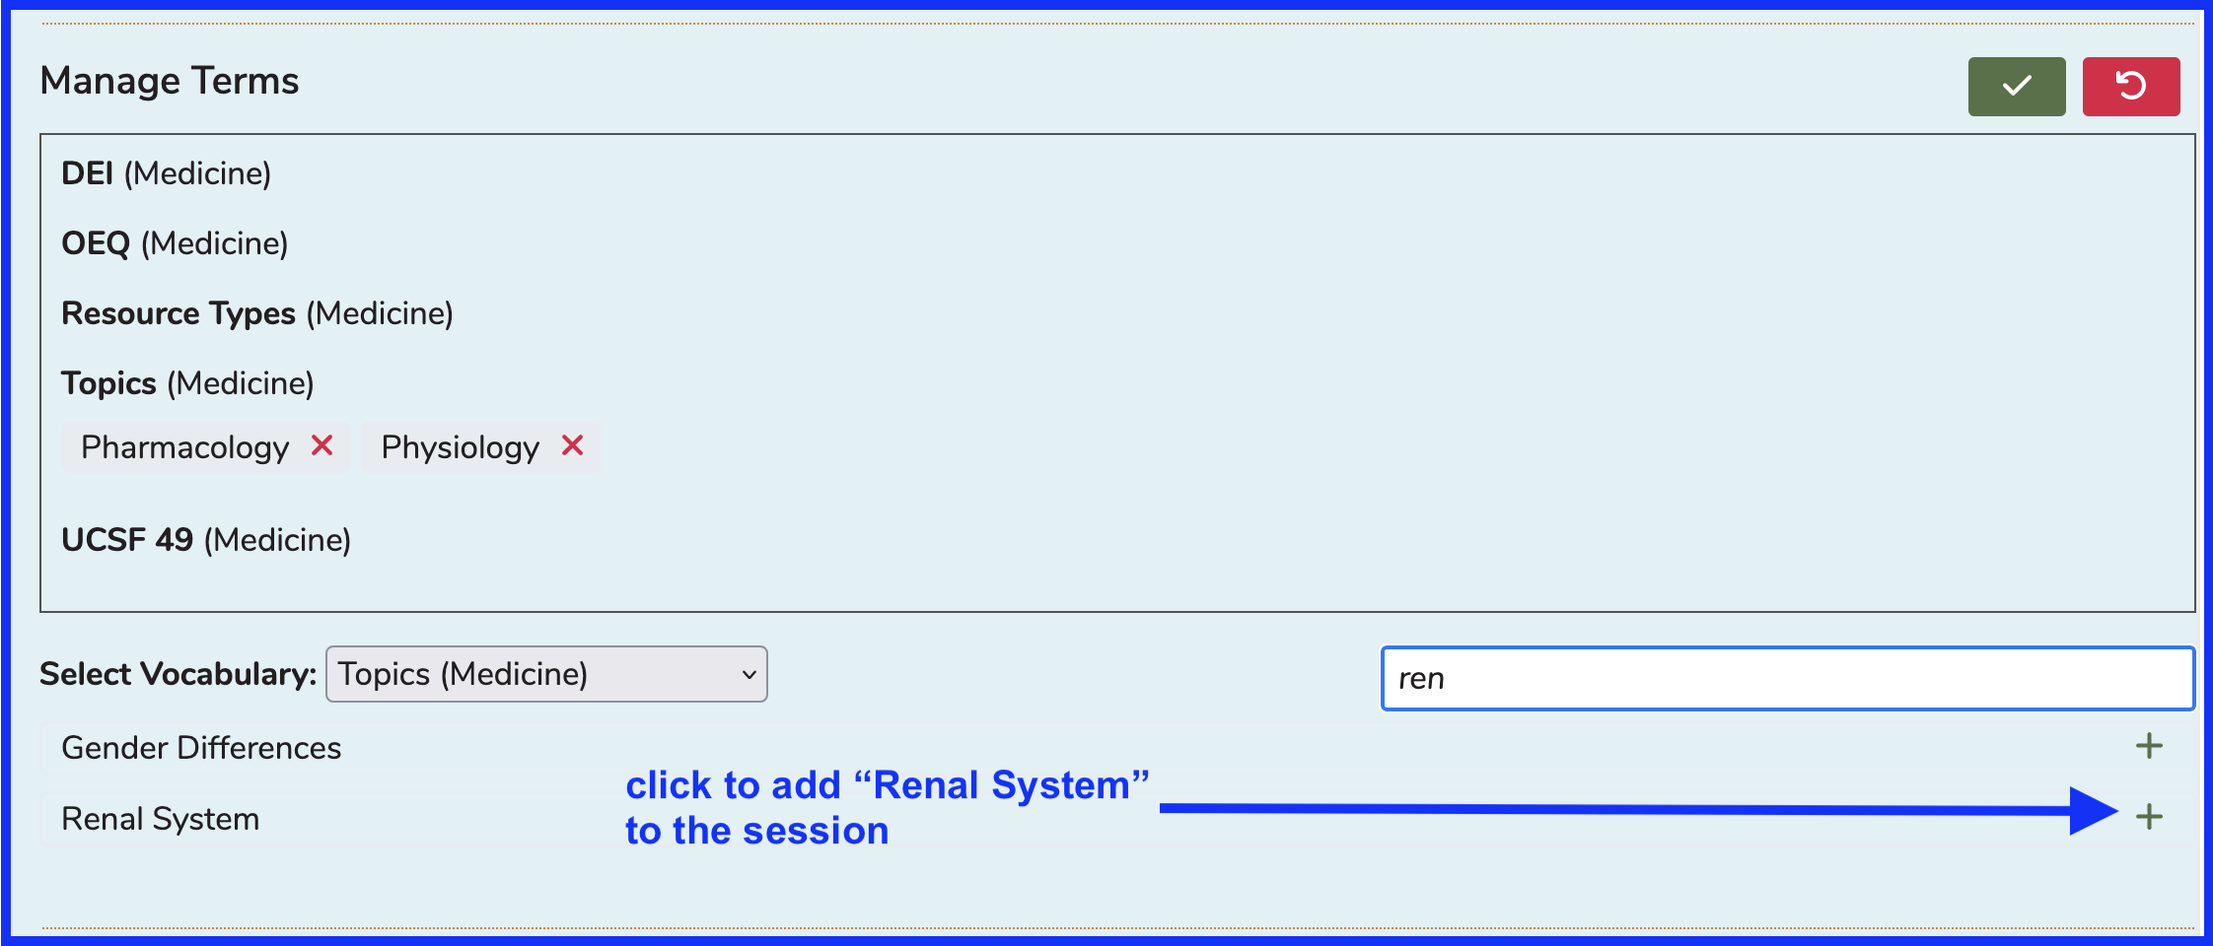
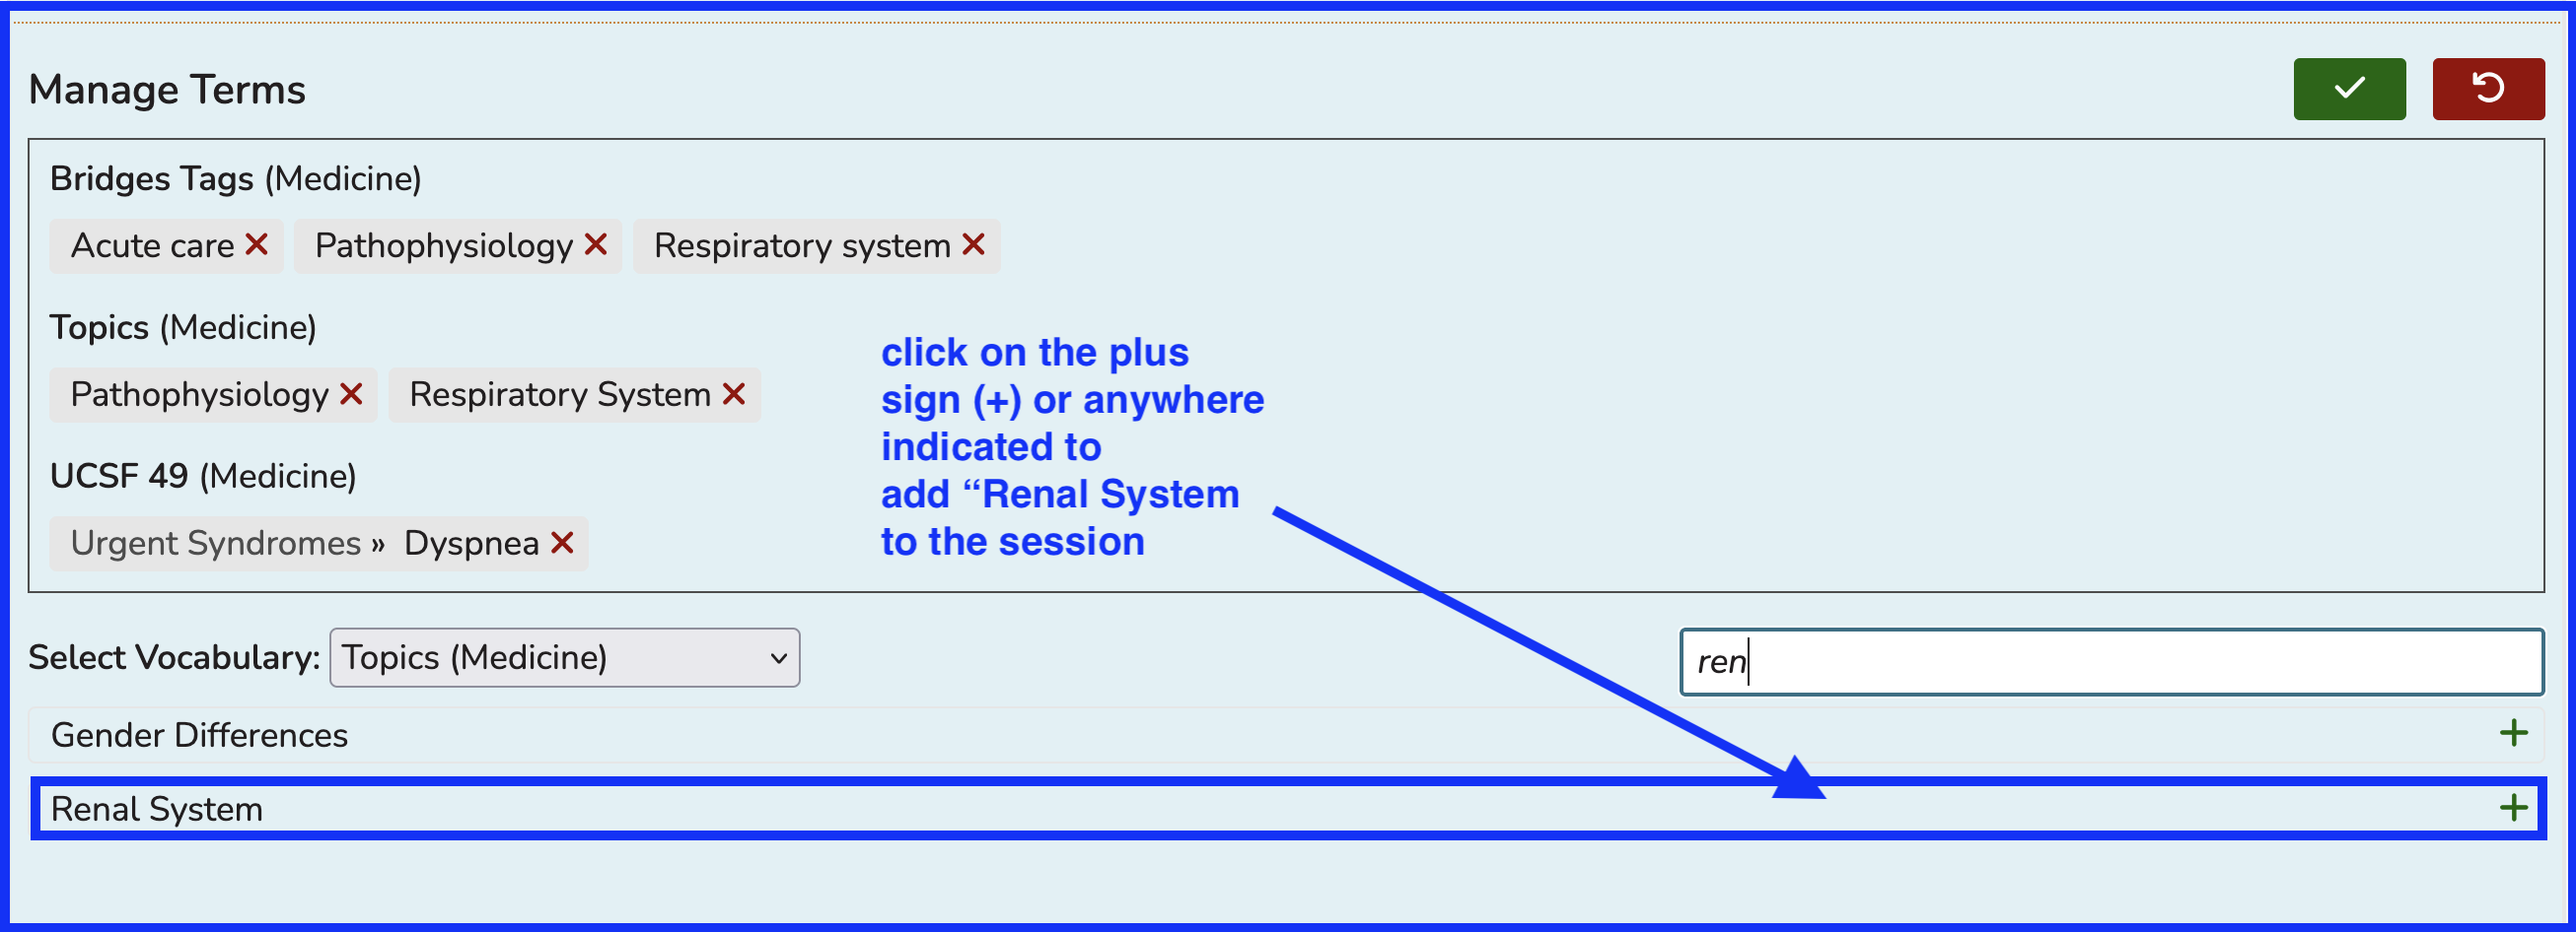
image updated - text updated

diff --git a/courses-and-sessions/sessions/vocabulary_terms.md b/courses-and-sessions/sessions/vocabulary_terms.md
@@ -30,7 +30,7 @@ After clicking as shown above ...
 
 ![term added to session](../../images/session_edit/term_added_to_session.png)
 
-After confirming the addition of the Term "Renal System" to the Session, it appears in saved mode as shown below.
+After confirming the addition of the term "Renal System" from the Topic vocabulary to the session, it appears in saved mode as shown below.
 
 ![new session term added](../../images/session_edit/new_session_term_added.png)
 
